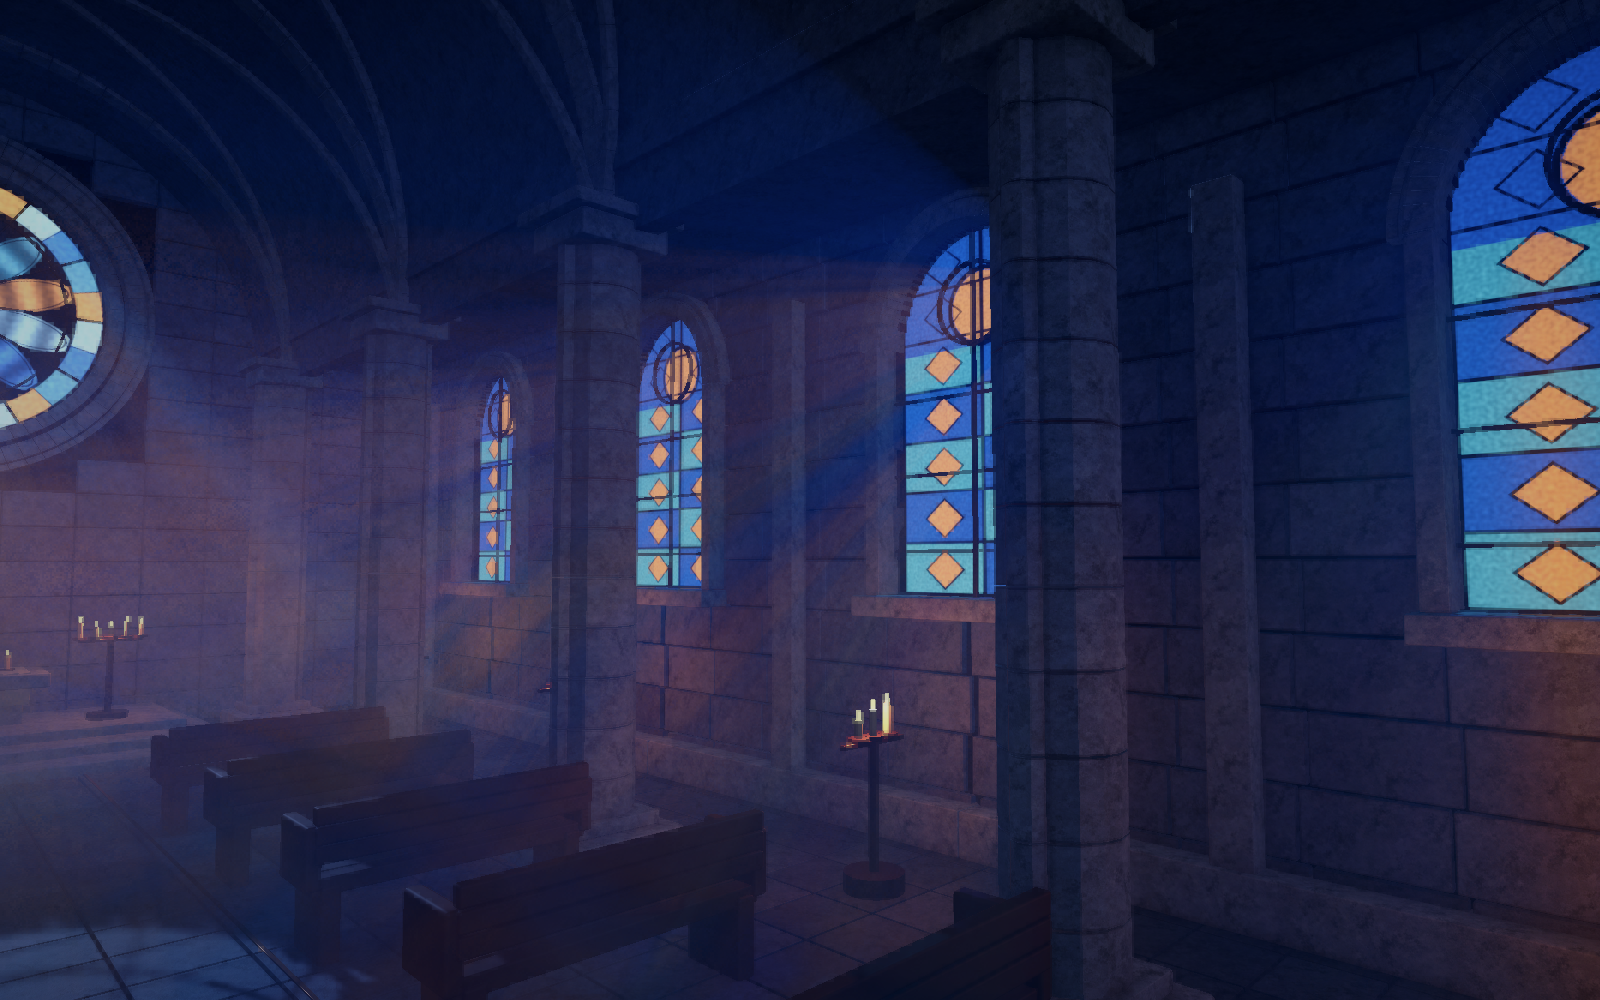
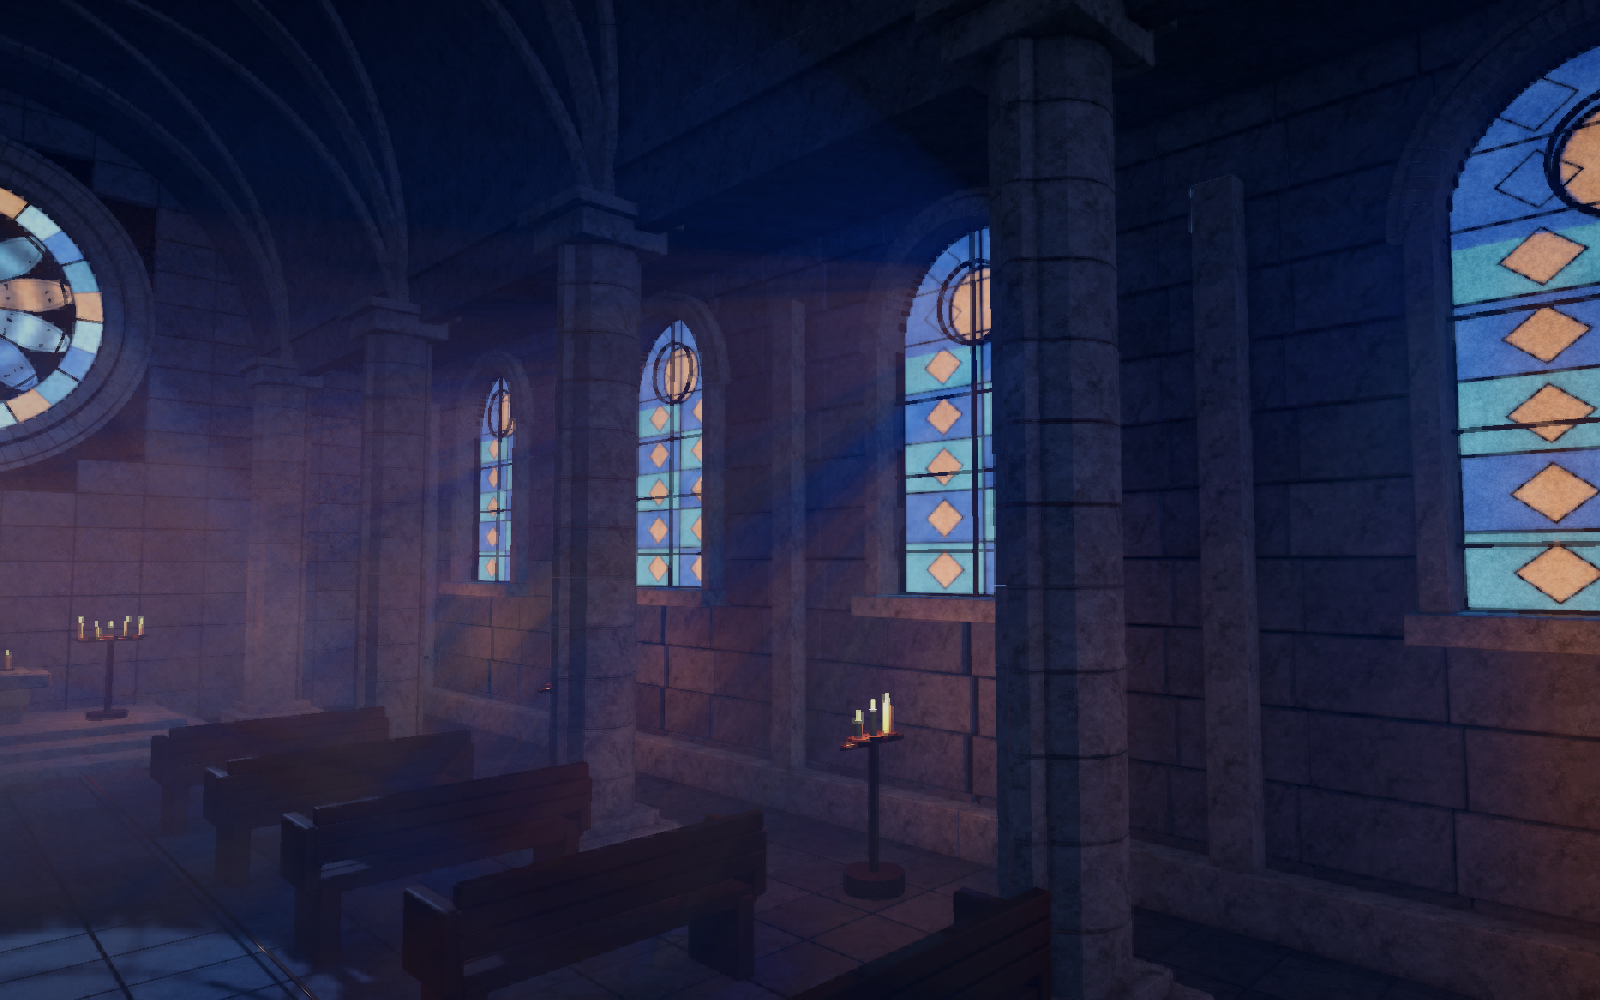
Sharpen chapel light shafts and add frosted stained glass

diff --git a/Assets/MVP04/Editor/MVP04Glass.cs b/Assets/MVP04/Editor/MVP04Glass.cs
@@ -1,0 +1,54 @@
+using System;
+using UnityEditor;
+using UnityEngine;
+using UnityEngine.Rendering.Universal;
+
+public static partial class MVP04Builder
+{
+    private static Material FrostedGlass(string name,Texture2D texture,float transmission,Vector2 paneSize)
+    {
+        const string shader="MVP04/Frosted Stained Glass";
+        var glass=Material(name,shader);glass.shader=Shader.Find(shader);
+        glass.shaderKeywords=Array.Empty<string>();glass.EnableKeyword("_ALPHATEST_ON");
+        glass.SetTexture("_BaseMap",texture);glass.SetColor("_BaseColor",Color.white);
+        glass.SetColor("_FrostTint",new Color(.68f,.80f,.87f));
+        glass.SetVector("_PaneSize",new Vector4(paneSize.x,paneSize.y,0,0));
+        glass.SetFloat("_FrostAmount",.8f);glass.SetFloat("_FrostBlur",2.4f);
+        glass.SetFloat("_GrainStrength",.38f);glass.SetFloat("_Smoothness",.24f);
+        glass.SetFloat("_Transmission",transmission);glass.SetFloat("_Cutoff",.5f);glass.SetFloat("_Cull",2);
+        glass.renderQueue=2450;EditorUtility.SetDirty(glass);return glass;
+    }
+
+    private static void SharpenWindowBeams(Material volume)
+    {
+        volume.SetFloat("_BeamEdge",.025f);volume.SetFloat("_BeamSpread",.003f);
+        volume.SetFloat("_BeamContrast",1.65f);volume.SetFloat("_ShadowSharpness",.7f);
+        EditorUtility.SetDirty(volume);
+    }
+
+    [MenuItem("MVP04/Apply Frosted Glass and Sharper Beams")]
+    public static void ApplyFrostedGlassAndBeams()
+    {
+        if(Application.isPlaying)throw new InvalidOperationException("Stop Play mode before editing chapel materials.");
+        var rose=FrostedGlass("LuminousRoseGlass",AssetDatabase.LoadAssetAtPath<Texture2D>(Root+"/Textures/RoseTransmission.png"),2.05f,new Vector2(5.26f,5.26f));
+        var side=FrostedGlass("LuminousSideGlass",AssetDatabase.LoadAssetAtPath<Texture2D>(Root+"/Textures/SideGlassTransmission.png"),1.65f,new Vector2(2.44f,4.5f));
+        var volume=AssetDatabase.LoadAssetAtPath<Material>(Root+"/Materials/RoseWindowVolume.mat");
+        SharpenWindowBeams(volume);
+        AssetDatabase.SaveAssetIfDirty(rose);AssetDatabase.SaveAssetIfDirty(side);AssetDatabase.SaveAssetIfDirty(volume);
+    }
+
+    [MenuItem("MVP04/Capture Frosted Glass Detail")]
+    public static void CaptureFrostedGlassDetail()
+    {
+        var camera=Camera.main;if(camera==null)throw new InvalidOperationException("Open MVP04 first.");
+        var position=camera.transform.position;var rotation=camera.transform.rotation;
+        var atmosphere=UnityEngine.Object.FindFirstObjectByType<UnityEngine.Rendering.Volume>();
+        atmosphere.profile.TryGet(out DepthOfField focus);float oldFocus=focus.focusDistance.value;
+        try
+        {
+            camera.transform.position=V(5.8f,5.2f,-2.3f);camera.transform.LookAt(V(8.86f,5.3f,0));
+            focus.focusDistance.value=3.85f;CaptureCamera(camera,"Previews/MVP04_FrostedGlass.png");
+        }
+        finally{focus.focusDistance.value=oldFocus;camera.transform.SetPositionAndRotation(position,rotation);}
+    }
+}

diff --git a/Assets/MVP04/Editor/MVP04Builder.cs b/Assets/MVP04/Editor/MVP04Builder.cs
@@ -164,8 +164,7 @@ public static partial class MVP04Builder
             leading.Bar(Window+radial*.44f,Window+radial*2.57f,.045f);
         }
         leading.Save("RoseBronzeTracery",bronze);
-        Material glass=Lit("LuminousRoseGlass",Color.white,.75f);
-        glass.SetTexture("_BaseMap",texture);glass.SetTexture("_EmissionMap",texture);Emission(glass,new Color(2.6f,2.6f,2.6f));
+        Material glass=FrostedGlass("LuminousRoseGlass",texture,2.05f,new Vector2(5.26f,5.26f));
         var pane=new ChapelMesh();pane.Disc(Window+Vector3.forward*.12f,2.63f);
         var go=pane.Save("RoseStainedGlass",glass);
         go.GetComponent<Renderer>().shadowCastingMode=ShadowCastingMode.Off;
@@ -315,6 +314,7 @@ public static partial class MVP04Builder
             if(feature is FullScreenPassRendererFeature full && full.passMaterial!=null && full.passMaterial.shader.name=="MVP03/Subtle Pixels")
             {full.passMaterial=AssetDatabase.LoadAssetAtPath<Material>(pixelsPath);EditorUtility.SetDirty(full);}
         Material volume=Material("RoseWindowVolume","MVP04/Window Volume");volume.SetTexture("_RoseMask",rose);volume.SetVector("_WindowOrigin",Window);volume.SetVector("_LightDirection",SunDirection);volume.SetFloat("_Radius",2.6f);volume.SetFloat("_Density",.045f);volume.SetFloat("_Length",26);volume.SetColor("_ScatterColor",new Color(1.3f,1.5f,1.9f));EditorUtility.SetDirty(volume);
+        SharpenWindowBeams(volume);
         var light=renderer.rendererFeatures.OfType<WindowVolumeFeature>().FirstOrDefault();
         if(light==null){light=ScriptableObject.CreateInstance<WindowVolumeFeature>();light.name="Rose window / shadowed dust volume";AssetDatabase.AddObjectToAsset(light,renderer);renderer.rendererFeatures.Add(light);}
         light.material=volume;light.Create();EditorUtility.SetDirty(light);renderer.SetDirty();EditorUtility.SetDirty(renderer);

diff --git a/Assets/MVP04/Editor/MVP04SideWindows.cs b/Assets/MVP04/Editor/MVP04SideWindows.cs
@@ -57,13 +57,10 @@ public static partial class MVP04Builder
         var previous=random;random=new System.Random(20408);
         var root=new GameObject("Side stained glass and moonlight").transform;
         var texture=SideGlassTexture();
-        var glass=Lit("LuminousSideGlass",Color.white,.8f);
-        glass.SetTexture("_BaseMap",texture);glass.SetTexture("_EmissionMap",texture);
-        glass.SetFloat("_AlphaClip",1);glass.SetFloat("_Cutoff",.5f);glass.EnableKeyword("_ALPHATEST_ON");
-        glass.renderQueue=2450;Emission(glass,new Color(1.85f,1.85f,1.85f));
+        var glass=FrostedGlass("LuminousSideGlass",texture,1.65f,new Vector2(2.44f,4.5f));
         var bronze=AssetDatabase.LoadAssetAtPath<Material>(Root+"/Materials/AgedBronze.mat");
         var volume=AssetDatabase.LoadAssetAtPath<Material>(Root+"/Materials/RoseWindowVolume.mat");
-        if(volume!=null){volume.SetTexture("_SideMask",texture);volume.SetFloat("_SideDensity",.11f);EditorUtility.SetDirty(volume);}
+        if(volume!=null){volume.SetTexture("_SideMask",texture);volume.SetFloat("_SideDensity",.11f);SharpenWindowBeams(volume);}
         // Clustered lighting retains nearby candle/bounce lights as the eight window spots are added.
         var renderer=AssetDatabase.LoadAssetAtPath<UniversalRendererData>(Root+"/Rendering/NocturneRenderer.asset");
         var rendererSettings=new SerializedObject(renderer);rendererSettings.FindProperty("m_RenderingMode").intValue=2;

diff --git a/Assets/MVP04/README.md b/Assets/MVP04/README.md
@@ -6,11 +6,12 @@ The dark interior is arranged symmetrically along the nave: bundled stone column
 
 ## Rendering
 
-- **Window light:** `WindowVolumeFeature` runs one bounded 48-step world-space ray march before post processing for the rose and eight side windows. Scene depth limits integration to visible air. Main and additional-light shadow maps account for architectural occlusion. Four arched windows on each side have actual wall openings, carved stone surrounds and blue/teal/amber glass. Each `SideWindowLight` associates a shadow-casting spotlight with its aperture; glass transmission and drifting 3D noise colour the diagonal shafts. Camera-specific visible-light indices select the correct shadow map. The volume is tailored to this chapel's fixed window dimensions.
+- **Window light:** `WindowVolumeFeature` runs one bounded 72-step world-space ray march before post processing for the rose and eight side windows. Scene depth limits integration to visible air. Main and additional-light shadow maps account for architectural occlusion. Narrower beam edges, reduced spreading, stronger transmission contrast and remapped shadow penumbrae make the shafts more defined. Four arched windows on each side have actual wall openings, carved stone surrounds and blue/teal/amber glass. Each `SideWindowLight` associates a shadow-casting spotlight with its aperture; glass transmission and drifting 3D noise colour the diagonal shafts. Camera-specific visible-light indices select the correct shadow map. The volume is tailored to this chapel's fixed window dimensions.
+- **Frosted glass:** `FrostedGlass.shader` shades both rose and side panes with PBR, rough micro-normals, mottled scattering and fine grain that fades below pixel resolution. A short texture blur softens transmitted colour while the opaque lead remains dark. This approximates light diffusing through ground glass; it does not trace exterior refraction. The original transmission masks remain available to the light beams and projected cookies.
 - **Side illumination:** matching RGB spotlight cookies project the glass pattern onto stone and furniture. MVP04 uses Forward+ to keep window lights, ambient bounce and candles active together. The shared stone PBR shader supports clustered lights and cookies, while retaining the MVP03 forward variant.
 - **Surface light:** the real opening, physical stone frame and bronze tracery cast directional moonlight shadows. Local warm lights illuminate candle stands. A brighter three-colour ambient environment and broad cool bounce lights reveal stone, pews and paving in shadow while retaining the direct window light contrast. **MVP04 > Apply Readable Ambient Lighting** updates and saves only the open chapel's lighting without rebuilding its geometry.
 - **Finishing:** SSAO, ACES, bloom and restrained character-focused depth of field. The current MVP03 settings (**6-pixel cells / 32% blend** when this version was generated) process the complete scene and magic after these effects. MVP04 has a separate renderer and a copied pixel material, so later adjustments can be made independently.
-- **Controls:** edit `Materials/RoseWindowVolume.mat` to tune rose dust density, side-window dust density (default **0.11**), scatter colour and noise scale. Each side light's `SideWindowLight.scattering` controls its individual shaft strength. `Materials/SubtlePixels.mat` tunes pixel size and blend. `Rendering/NocturneAtmosphere.asset` controls bloom, exposure and focus. The beam origins and bounds are designed for this chapel layout.
+- **Controls:** edit `Materials/RoseWindowVolume.mat` to tune rose dust density, side-window dust density (default **0.11**), beam edge softness, spread, transmission contrast and shadow definition. Each side light's `SideWindowLight.scattering` controls its individual shaft strength. `LuminousRoseGlass.mat` and `LuminousSideGlass.mat` expose frost amount, transmission blur, etched grain, roughness and transmitted light. `Materials/SubtlePixels.mat` tunes pixel size and blend. `Rendering/NocturneAtmosphere.asset` controls bloom, exposure and focus. The beam origins and bounds are designed for this chapel layout.
 
 ## Rebuild and preview
 
@@ -19,5 +20,7 @@ The dark interior is arranged symmetrically along the nave: bundled stone column
 **MVP04 > Capture Dark Chapel Preview** saves the active camera at 1600x1000 to `Previews/MVP04_DarkChapel.png`. The project uses Unity 6.3 / URP 17.3 Render Graph; the custom volume feature targets that render path.
 
 **MVP04 > Add Side Stained Glass Windows** updates the side walls, windows and their lights in the open chapel, preserving its furniture, player, camera and ambient settings. **MVP04 > Capture Side Window Preview** temporarily turns the camera towards the side aisle, writes `Previews/MVP04_SideWindows.png`, and restores the camera.
+
+**MVP04 > Apply Frosted Glass and Sharper Beams** updates the three window materials without rebuilding the scene. **MVP04 > Capture Frosted Glass Detail** saves `Previews/MVP04_FrostedGlass.png` and restores the camera and focus afterwards.
 
 Validate lighting in the actual Game window as well as the off-screen preview. `ChapelMesh.Box` supplies face normals for zero-bevel boxes: zero-length normals on the side-wall backing caused invalid HDR lighting that bloom and depth of field spread into large white regions. The repaired backing meshes retain the original light and post-processing settings. `Previews/MVP04_GameView.png` records the corrected Play Mode output.
